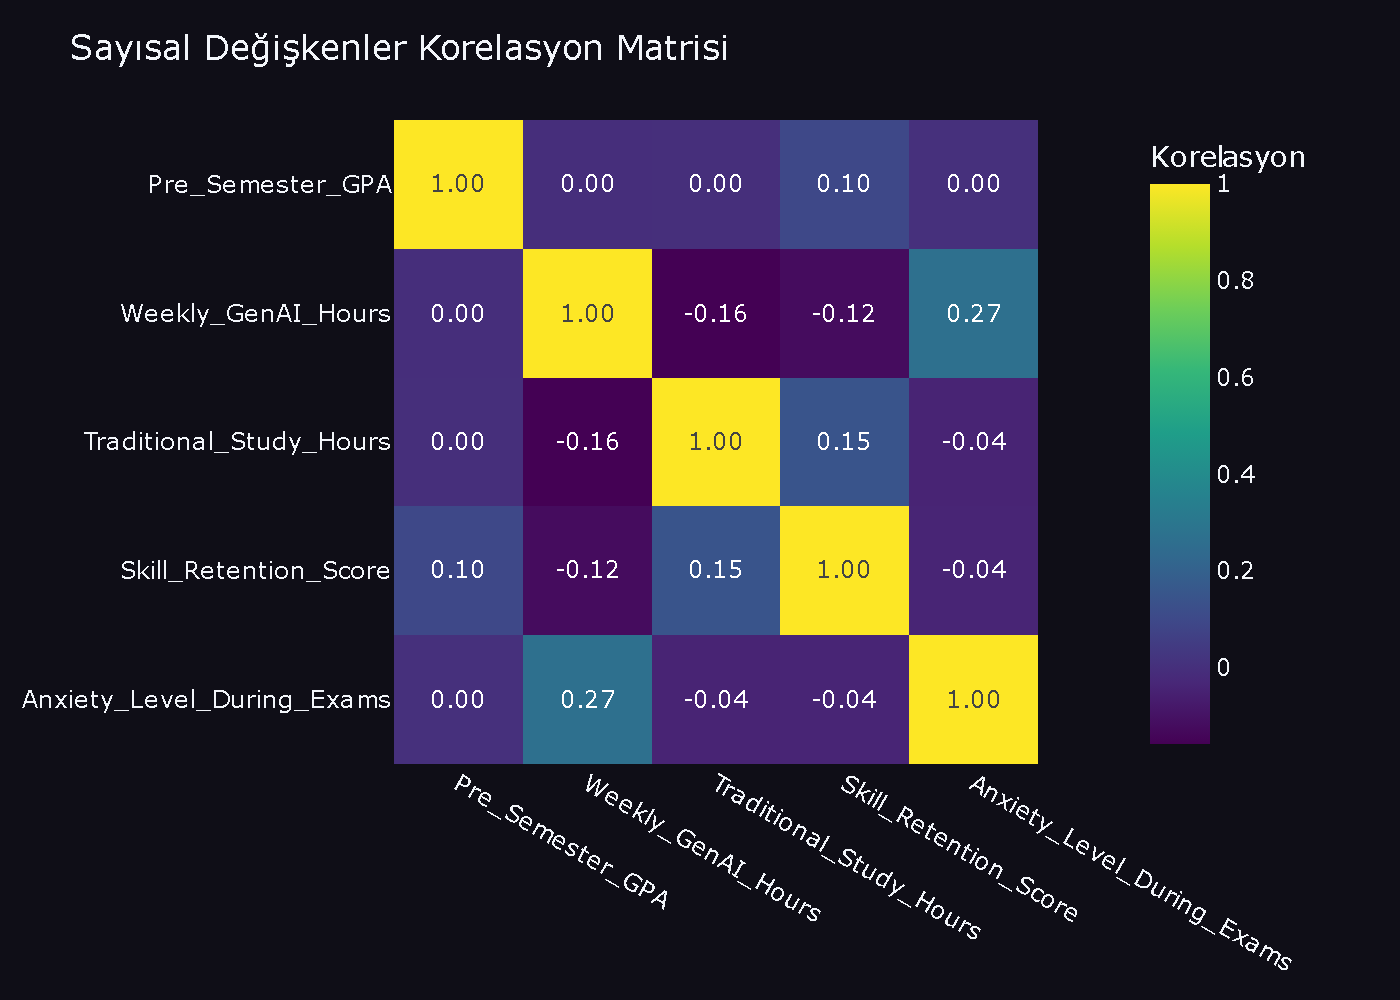
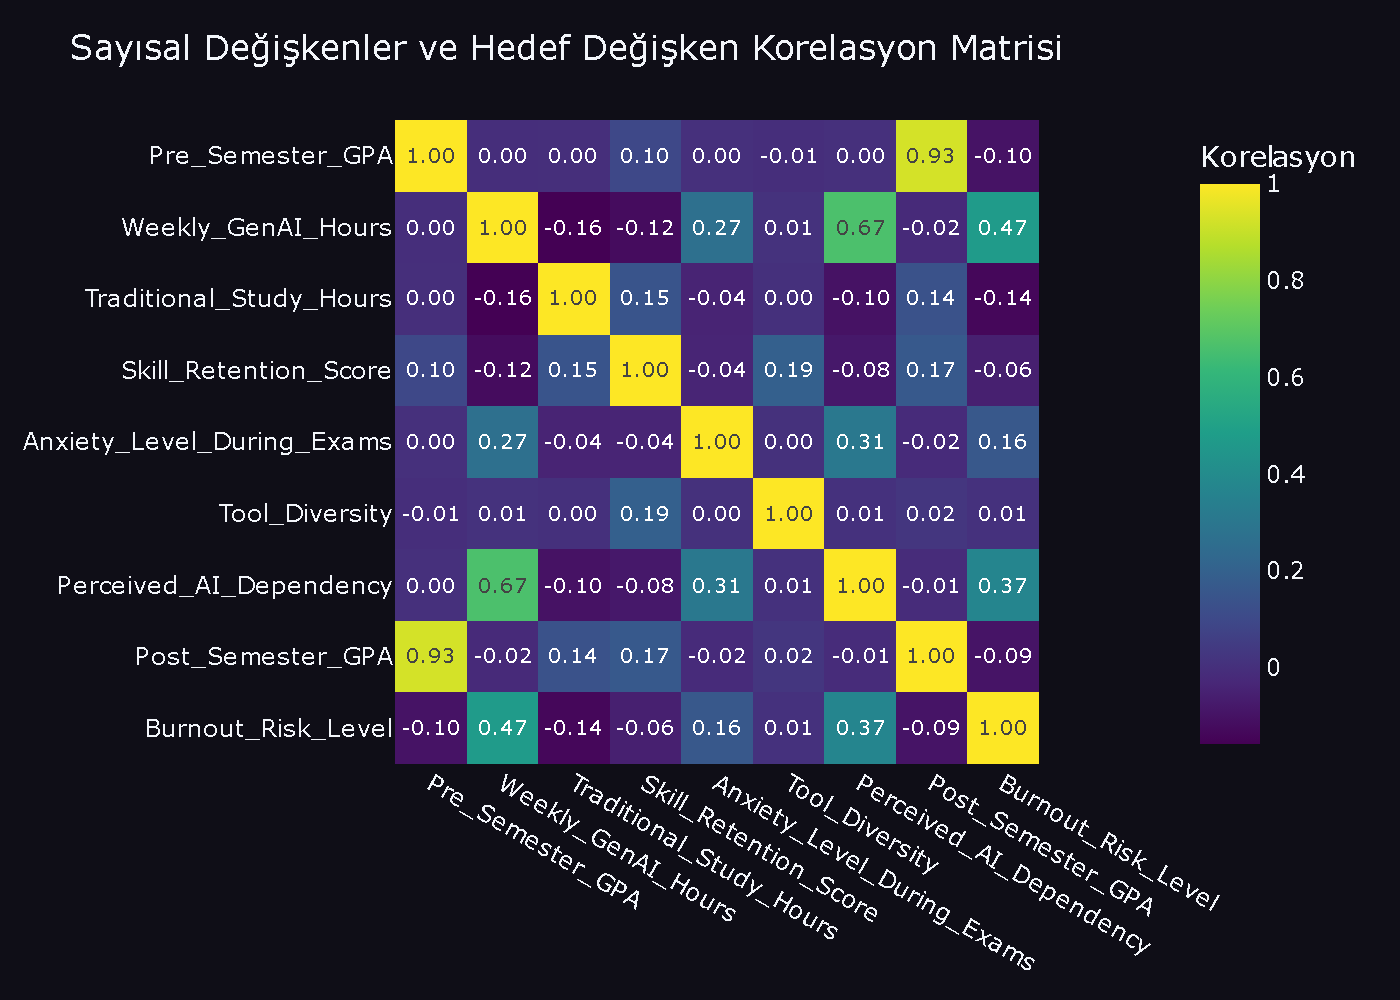
feat: resolve Phase 1 & 2 review findings and leakage issues

diff --git a/plans_and_agents/PHASE_1_2_AGENT.md b/plans_and_agents/PHASE_1_2_AGENT.md
@@ -197,14 +197,18 @@ except Exception as e:
 ```
 *Altına eklenecek analist yorumu:*
 ```markdown
-**Veri Analisti Yorumu:** Eksik değer ısı haritası incelendiğinde, eksikliklerin veri setinin geneline rastgele dağıldığı (Missing Completely at Random - MCAR) gözlemlenmektedir. Özellikle `Pre_Semester_GPA`, `Post_Semester_GPA`, `Weekly_GenAI_Hours` ve `Skill_Retention_Score` değişkenlerinde eksik değerler mevcuttur. Bu değişkenler modelleme öncesi veri hazırlama (Data Preparation) aşamasında uygun median/mean imputer yöntemleriyle doldurulmalıdır.
+**Veri Analisti Yorumu:** Eksik değer ısı haritası incelendiğinde, eksikliklerin veri setinin geneline rastgele dağıldığı (Missing Completely at Random - MCAR) gözlemlenmektedir. Veri setinde `Pre_Semester_GPA`, `Post_Semester_GPA`, `Weekly_GenAI_Hours`, `Skill_Retention_Score`, `Tool_Diversity`, `Perceived_AI_Dependency`, `Traditional_Study_Hours`, `Prompt_Engineering_Skill` ve `Anxiety_Level_During_Exams` olmak üzere 9 değişkende eksik değerler mevcuttur. Bu değişkenler modelleme öncesi veri hazırlama (Data Preparation) aşamasında uygun median (sayısal) veya mode (kategorik) imputer yöntemleriyle doldurulmalıdır.
 ```
 
 #### Hücre 4 (Code) - Sayısal Değişken Dağılımları
 Yerleştirilecek alan: **Section 2.5**
 ```python
 # 2.5 Sayısal Değişken Dağılımları
-num_cols = ['Pre_Semester_GPA', 'Weekly_GenAI_Hours', 'Traditional_Study_Hours', 'Skill_Retention_Score', 'Anxiety_Level_During_Exams']
+num_cols = [
+    'Pre_Semester_GPA', 'Weekly_GenAI_Hours', 'Traditional_Study_Hours', 
+    'Skill_Retention_Score', 'Anxiety_Level_During_Exams', 
+    'Tool_Diversity', 'Perceived_AI_Dependency', 'Post_Semester_GPA'
+]
 
 for col in num_cols:
     fig = make_subplots(rows=1, cols=2, subplot_titles=(f"{col} Dağılımı", f"{col} Kutu Grafiği (Risk Grubu Bazlı)"))
@@ -239,7 +243,7 @@ for col in num_cols:
 ```
 *Altına eklenecek analist yorumu:*
 ```markdown
-**Veri Analisti Yorumu:** Haftalık yapay zeka kullanım saatleri (`Weekly_GenAI_Hours`) arttıkça ve geleneksel çalışma saatleri (`Traditional_Study_Hours`) azaldıkça öğrencilerin tükenmişlik riskinin (`High`) belirgin şekilde arttığı gözlenmektedir. Sınav anksiyete seviyesi (`Anxiety_Level_During_Exams`) yüksek olan öğrencilerin de ezici çoğunluğu High risk grubundadır. GPA değerleri ise daha homojen dağılmakla birlikte, düşük GPA seviyeleri yüksek tükenmişlik riskiyle kısmen ilişkilidir.
+**Veri Analisti Yorumu:** Haftalık yapay zeka kullanım saatleri (`Weekly_GenAI_Hours`) ve algılanan yapay zeka bağımlılığı (`Perceived_AI_Dependency`) arttıkça, ayrıca sınav anı kaygısı (`Anxiety_Level_During_Exams`) yükseldikçe öğrencilerin yüksek tükenmişlik riski (`High`) grubunda yer alma oranı belirgin şekilde artmaktadır. Geleneksel çalışma saatleri (`Traditional_Study_Hours`) arttıkça ise tükenmişlik riski azalmaktadır. Akademik ortalamalar (`Pre_Semester_GPA` ve `Post_Semester_GPA`) ile beceri kalıcılığı (`Skill_Retention_Score`) ve araç çeşitliliği (`Tool_Diversity`) risk seviyelerine göre daha homojen bir dağılım sergilemektedir; ancak düşük not ortalaması ve düşük beceri kalıcılığı yüksek riskle kısmen ilişkilidir. Not: `Post_Semester_GPA` dönem sonu verisi olduğundan, modelleme aşamasında veri sızıntısını önlemek için hariç tutulacaktır.
 ```
 
 #### Hücre 5 (Code) - Kategorik Değişkenler
@@ -278,14 +282,26 @@ for col in cat_cols:
 ```
 *Altına eklenecek analist yorumu:*
 ```markdown
-**Veri Analisti Yorumu:** Yapay zekayı ağırlıklı olarak "Direct_Answer_Generation" (Doğrudan Cevap Üretme) amacıyla kullanan öğrencilerde `High` tükenmişlik riski oranı, "Ideation" veya "Debugging" amacıyla kullananlara göre daha yüksektir. Ayrıca, prompt mühendisliği becerisi (`Prompt_Engineering_Skill`) 'Beginner' olanlar ile ücretli aboneliği (`Paid_Subscription`) bulunmayan öğrencilerde tükenmişlik riski bir miktar daha baskındır. Bölüm bazlı dağılımlarda (Major_Category) ise STEM ve Humanities öğrencileri arasında hafif varyasyonlar mevcuttur.
+**Veri Analisti Yorumu:** Yapay zekayı birincil kullanım amaçlarına (`Primary_Use_Case`) göre incelediğimizde, `Direct_Answer_Generation` (Doğrudan Cevap Üretme) ve `Debugging/Troubleshooting` (Hata Ayıklama) dahil tüm kategorilerde yüksek tükenmişlik riski (`High`) oranının birbirine oldukça yakın ve dengeli (yaklaşık %25-%28 bandında) olduğu görülmektedir. Hacimsel olarak incelendiğinde, `Debugging/Troubleshooting` en fazla öğrenci içeren gruptur ve dolayısıyla bu gruptaki yüksek riskli öğrenci sayısı mutlak değer olarak daha fazladır. Ayrıca, prompt mühendisliği becerisi (`Prompt_Engineering_Skill`) 'Beginner' olanlar ile ücretli aboneliği bulunmayan öğrencilerde tükenmişlik riski bir miktar daha baskındır.
 ```
 
 #### Hücre 6 (Code) - Korelasyon Matrisi
 Yerleştirilecek alan: **Section 2.6**
 ```python
 # 2.6 Korelasyon Matrisi
-corr_matrix = df[num_cols].corr()
+TARGET = 'Burnout_Risk_Level'
+num_cols = [
+    'Pre_Semester_GPA', 'Weekly_GenAI_Hours', 'Traditional_Study_Hours', 
+    'Skill_Retention_Score', 'Anxiety_Level_During_Exams', 
+    'Tool_Diversity', 'Perceived_AI_Dependency', 'Post_Semester_GPA'
+]
+
+# Korelasyon matrisinde hedef değişkeni de göstermek için geçici olarak sayısallaştırıyoruz
+corr_df = df[num_cols].copy()
+target_map = {'Low': 0, 'Medium': 1, 'High': 2}
+corr_df['Burnout_Risk_Level'] = df[TARGET].map(target_map)
+
+corr_matrix = corr_df.corr()
 
 fig = px.imshow(
     corr_matrix,
@@ -295,7 +311,7 @@ fig = px.imshow(
 )
 
 fig.update_layout(
-    title="Sayısal Değişkenler Korelasyon Matrisi",
+    title="Sayısal Değişkenler ve Hedef Değişken Korelasyon Matrisi",
     template="plotly_dark",
     paper_bgcolor='#0f0e17',
     plot_bgcolor='#0f0e17'
@@ -310,7 +326,7 @@ except Exception as e:
 ```
 *Altına eklenecek analist yorumu:*
 ```markdown
-**Veri Analisti Yorumu:** Korelasyon matrisi incelendiğinde, en güçlü pozitif ilişkilerden birinin `Weekly_GenAI_Hours` ile `Anxiety_Level_During_Exams` arasında olduğu görülmektedir. Diğer yandan, `Traditional_Study_Hours` ile `Weekly_GenAI_Hours` arasında negatif bir ilişki söz konusudur; bu durum yapay zeka kullanımının artmasının geleneksel çalışma alışkanlıklarını ikame ettiğini doğrulamaktadır. GPA'ler ile diğer değişkenler arasında ise doğrusal korelasyonlar zayıftır, bu da doğrusal olmayan modellerin (Ağaç tabanlı algoritmalar gibi) tercih edilmesi gerektiğini göstermektedir.
+**Veri Analisti Yorumu:** Korelasyon matrisi incelendiğinde, hedef değişkenimiz `Burnout_Risk_Level` ile en güçlü pozitif ilişkinin `Weekly_GenAI_Hours` (0.47) ve `Perceived_AI_Dependency` (0.37) arasında olduğu görülmektedir. Sınav anı kaygısı da target ile pozitif yönlü (0.16) ilişkilidir. Geleneksel çalışma saatleri (`Traditional_Study_Hours`) ile hedef değişken arasında ise negatif yönlü (-0.14) bir ilişki mevcuttur. Diğer yandan, `Traditional_Study_Hours` ile `Weekly_GenAI_Hours` arasındaki negatif korelasyon (-0.16) yapay zekanın geleneksel çalışmanın yerini aldığını desteklemektedir. GPA değerleri ile diğer özellikler arasındaki ilişkiler oldukça zayıftır, bu da doğrusal olmayan modellerin (Ağaç tabanlı algoritmalar) tercih edilmesi gerektiğini göstermektedir.
 ```
 
 #### Hücre 7 (Code) - Aykırı Değer Tespiti
@@ -318,6 +334,11 @@ Yerleştirilecek alan: **Section 2.7**
 ```python
 # 2.7 Aykırı Değer Analizi (IQR Yöntemi)
 outlier_summary = []
+num_cols = [
+    'Pre_Semester_GPA', 'Weekly_GenAI_Hours', 'Traditional_Study_Hours', 
+    'Skill_Retention_Score', 'Anxiety_Level_During_Exams', 
+    'Tool_Diversity', 'Perceived_AI_Dependency', 'Post_Semester_GPA'
+]
 
 for col in num_cols:
     Q1 = df[col].quantile(0.25)
@@ -343,27 +364,41 @@ display(outlier_df.style.set_properties(**{'background-color': '#111827', 'color
 **Veri Analisti Yorumu:** IQR analizi sonuçlarına göre, sayısal değişkenlerin çoğunda uç veya aykırı değer bulunmamaktadır veya oran %0.1'in altındadır. Bu durum veri setinin nispeten temiz olduğunu göstermektedir. Var olan çok az sayıdaki aykırı değer için kırpma (clipping / winsorization) veya robust ölçeklendirme (RobustScaler) metotları, sonraki faz olan veri hazırlama aşamasında alternatif olarak değerlendirilebilir.
 ```
 
-#### Hücre 8 (Markdown) - EDA Sonu Raporu / Handoff Notu
-Yerleştirilecek alan: **Section 2.8'in sonu**
+#### Hücre 8 (Markdown) - Veri Sızıntısı Değerlendirmesi
+Yerleştirilecek alan: **Section 2.8**
 ```markdown
-### 2.8 EDA Bulguları ve Cenker'e Handoff Notları
+### 2.8 Veri Sızıntısı (Data Leakage) Değerlendirmesi
+
+Modelin gerçek dünyada (dönem başında) doğru ve güvenilir tahminler yapabilmesi için veri sızıntısı riski taşıyan özellikleri analiz etmek ve filtrelemek kritik öneme sahiptir.
+
+* **`Post_Semester_GPA` (Dönem Sonu Not Ortalaması):** Dönem sonuna ait bir ölçümdür. İş problemi, dönem başındaki verilere göre dönem sonundaki tükenmişlik riskini tahmin etmektir. Dönem başında bilinmeyen bu özelliğin modele feature olarak girilmesi **veri sızıntısına (data leakage)** sebep olur. Bu nedenle bu sütun **kesinlikle modelleme dışı bırakılacaktır.**
+* **`Skill_Retention_Score` (Beceri Kalıcılığı Skoru):** Dönem içi bir değerlendirme olarak kabul edilmiştir. Ancak, modelleme sonrasında bu özelliğin model üzerindeki etkisi yakından izlenecektir. Beklenmedik düzeyde yüksek bir feature importance gösterirse, veri sızıntısı şüphesiyle modelden çıkarılması değerlendirilmelidir.
+* **`GPA_Change` (Not Değişimi Önerisi):** `Post_Semester_GPA - Pre_Semester_GPA` şeklinde bir özellik türetilmesi önerisi, içinde `Post_Semester_GPA` barındırdığı için **aynı veri sızıntısı riskini taşımaktadır ve kesinlikle uygulanmayacaktır.**
+```
+
+#### Hücre 9 (Markdown) - EDA Sonu Raporu / Handoff Notu
+Yerleştirilecek alan: **Section 2.9**
+```markdown
+### 2.9 EDA Bulguları ve Cenker'e Handoff Notları
 
 **Cenker (Faz 3 - Data Preparation)** için hazırlanan veri hazırlama yönergeleri aşağıdadır:
 
 1. **Eksik Değer Yönetimi (Imputation):**
-   * Sayısal Değişkenler (`Pre_Semester_GPA`, `Post_Semester_GPA`, `Weekly_GenAI_Hours`, `Traditional_Study_Hours`, `Skill_Retention_Score`, `Anxiety_Level_During_Exams`): Çarpık olmayan veya normal dağılıma yakın dağılımlar için **Median Imputer** kullanılması önerilir.
+   * Sayısal Değişkenler (`Pre_Semester_GPA`, `Post_Semester_GPA`, `Weekly_GenAI_Hours`, `Traditional_Study_Hours`, `Skill_Retention_Score`, `Anxiety_Level_During_Exams`, `Tool_Diversity`, `Perceived_AI_Dependency`): Çarpık olmayan veya normal dağılıma yakın dağılımlar için **Median Imputer** kullanılması önerilir.
    * Kategorik Değişkenler (`Prompt_Engineering_Skill`, `Primary_Use_Case`): Eksik değerler en sık gözlenen değerle (**Mode Imputer**) veya "Unknown" gibi sabit bir kategori atanarak doldurulmalıdır.
 2. **Kategorik Değişken Encoding:**
-   * `Prompt_Engineering_Skill` ve `Year_of_Study` değişkenleri doğal bir hiyerarşi içerdiğinden **OrdinalEncoder** (Beginner -> Intermediate -> Advanced) ile sayısallaştırılmalıdır.
-   * `Major_Category`, `Primary_Use_Case` ve `Institutional_Policy` sütunları hiyerarşik olmadığından veri sızıntısını önleyecek şekilde train seti üzerinde fit edilerek **OneHotEncoder** ile dönüştürülmelidir.
+   * `Prompt_Engineering_Skill` ve `Year_of_Study` değişkenleri doğal bir hiyerarşi içerdiğinden **OrdinalEncoder** (Beginner -> Intermediate -> Advanced; Freshman -> Senior) ile sayısallaştırılmalıdır.
+   * `Major_Category`, `Primary_Use_Case` ve `Institutional_Policy` sütunları hiyerarşik olmadığından train seti üzerinde fit edilerek **OneHotEncoder** ile dönüştürülmelidir.
    * `Paid_Subscription` kolonu boolean yapıda olup doğrudan 1 ve 0'a cast edilebilir.
 3. **Scaling:**
    * Modelleme aşamasında SVM, KNN ve Lojistik Regresyon gibi mesafeye duyarlı algoritmalar da kullanılacağından, tüm sayısal özellikler `StandardScaler` ile standartlaştırılmalıdır.
 4. **Yeni Özellik Türetimi (Feature Engineering) Önerileri:**
-   * `GPA_Change` = `Post_Semester_GPA` - `Pre_Semester_GPA` (YZ kullanımının başarıya doğrudan etkisini ölçmek için).
    * `Study_Ratio` = `Weekly_GenAI_Hours` / (`Traditional_Study_Hours` + 1) (Geleneksel çalışma ile YZ kullanımı arasındaki dengeyi temsil eden oran).
    * `Total_Study_Hours` = `Weekly_GenAI_Hours` + `Traditional_Study_Hours` (Toplam akademik efor).
-5. **Görsellerin Durumu:** Tüm grafikler `figures/` klasörü altına PNG formatında başarıyla kaydedilmiştir.
+   * `GPA_Change` → **UYGULAMA (Veri Sızıntısı Engellendi):** `Post_Semester_GPA` içerdiği için veri sızıntısına yol açmaktadır.
+5. **Veri Sızıntısı Filtrelemesi:**
+   * `Post_Semester_GPA` ve `Student_ID` sütunları veri sızıntısını ve ezberlemeyi önlemek için pipeline öncesinde veri setinden düşürülmelidir (`drop`).
+6. **Görsellerin Durumu:** Tüm grafikler `figures/` klasörü altına PNG formatında başarıyla kaydedilmiştir.
 ```
 
 ---

diff --git a/plans_and_agents/pr_summary.md b/plans_and_agents/pr_summary.md
@@ -11,9 +11,15 @@ Bu PR, APEX-V2 projesinin **Faz 1 (Business Understanding)** ve **Faz 2 (Data Un
 * **Başarı Metrikleri:** Birincil metrik olarak Macro F1-Score (> 0.80), Recall (High Risk sınıfı için > 0.85) ve ROC-AUC (> 0.88) başarı kriterleri tanımlandı.
 * **Maliyet Odaklı Tasarım:** Yüksek risk grubundaki bir öğrenciyi gözden kaçırmanın (False Negative) maliyetinin çok yüksek olduğu gerekçelendirilerek Recall (High) metriği önceliklendirildi.
 
-### 2. Temiz Keşifsel Veri Analizi - EDA (Faz 2)
+### 2. Temiz Keşifsel Veri Analizi - EDA (Faz 2) ve Kalite Denetim Düzeltmeleri
 * **Yeniden Yazım:** `final_analysis.ipynb` dosyası hücre hücre sıfırdan, en temiz ve hatasız biçimde programatik olarak yeniden oluşturuldu.
-* **Görsel Standartlar:** Plotly (`plotly_dark` teması) kullanılarak kurumsal renk uyumuyla (Low: Emerald, Medium: Amber, High: Rose/Red) 14 ayrı görselleştirme hazırlandı. Grafikler `figures/` dizinine kaydedildi.
+* **Kalite Denetim Düzeltmeleri:**
+  * **Veri Sızıntısı (Data Leakage) Değerlendirmesi:** Yeni bir bölüm (Section 2.8) eklenerek `Post_Semester_GPA` değişkeninin veri sızıntısı riski nedeniyle model dışı bırakılması gerekçelendirildi. İçinde `Post_Semester_GPA` barındıran `GPA_Change` feature engineering önerisi iptal edildi. `Skill_Retention_Score` için sızıntı takip protokolü tanımlandı.
+  * **Eksik Değer Analizi:** Isı haritası yorumunda eksik değer içeren tüm 9 değişken (`Pre_Semester_GPA`, `Post_Semester_GPA`, `Weekly_GenAI_Hours`, `Skill_Retention_Score`, `Tool_Diversity`, `Perceived_AI_Dependency`, `Traditional_Study_Hours`, `Prompt_Engineering_Skill`, `Anxiety_Level_During_Exams`) listelendi.
+  * **Sayısal Değişken Genişletmesi:** Sadece 5 değişken yerine veri setindeki tüm 8 sayısal değişken (`Tool_Diversity`, `Perceived_AI_Dependency`, `Post_Semester_GPA` dahil) dağılım ve box-plot analizlerine dahil edildi.
+  * **Korelasyon Matrisi:** Hedef değişken `Burnout_Risk_Level` sayısal olarak (`Low`: 0, `Medium`: 1, `High`: 2) map edilerek korelasyon matrisine eklendi ve tüm 8 sayısal değişkenle olan doğrusal ilişkisi görselleştirildi.
+  * **Primary Use Case Düzeltmesi:** Kullanım amacına göre risk oranlarının tüm sınıflarda dengeli olduğu (%25-%28) ve en yüksek hacimli grubun `Debugging/Troubleshooting` olduğu şekilde analist yorumu düzeltildi.
+* **Görsel Standartlar:** Plotly (`plotly_dark` teması) kullanılarak kurumsal renk uyumuyla (Low: Emerald, Medium: Amber, High: Rose/Red) 17 ayrı görselleştirme hazırlandı. Grafikler `figures/` dizinine kaydedildi.
 * **Yorum Temizliği ve Düzeltmeler:** Analiz yorumlarında bulunan tüm kopya ve mükerrer cümleler giderildi. Korelasyon yorumundaki `"poziyat"` yazım hatası `"pozitif"` olarak düzeltildi.
 
 ### 3. Çözülen Sistem Hataları
@@ -30,28 +36,16 @@ Bu PR, APEX-V2 projesinin **Faz 1 (Business Understanding)** ve **Faz 2 (Data Un
 Aşağıda, upstream ana repo (`cenkergultekin/apex-classification`) ile yapılan değişikliklerin karşılaştırma istatistikleri yer almaktadır:
 
 ```text
- CLAUDE.md                                          |     1 +
- figures/eda_categorical_Institutional_Policy.png   |   Bin 0 -> 47216 bytes
- figures/eda_categorical_Major_Category.png         |   Bin 0 -> 48317 bytes
- figures/eda_categorical_Paid_Subscription.png      |   Bin 0 -> 44521 bytes
- figures/eda_categorical_Primary_Use_Case.png       |   Bin 0 -> 56988 bytes
- figures/eda_categorical_Prompt_Engineering_Skill.png|   Bin 0 -> 48689 bytes
- figures/eda_categorical_Year_of_Study.png          |   Bin 0 -> 47975 bytes
- figures/eda_correlation_matrix.png                 |   Bin 0 -> 73890 bytes
- figures/eda_missing_value_heatmap.png              |   Bin 0 -> 59351 bytes
- figures/eda_numeric_Anxiety_Level_During_Exams.png |   Bin 0 -> 47209 bytes
- figures/eda_numeric_Pre_Semester_GPA.png           |   Bin 0 -> 56922 bytes
- figures/eda_numeric_Skill_Retention_Score.png      |   Bin 0 -> 57017 bytes
- figures/eda_numeric_Traditional_Study_Hours.png    |   Bin 0 -> 56171 bytes
- figures/eda_numeric_Weekly_GenAI_Hours.png         |   Bin 0 -> 62935 bytes
- figures/eda_target_distribution.png                |   Bin 0 -> 67201 bytes
- notebooks/final_analysis.ipynb                     | 14180 ++++++++++++++++++-
- plans_and_agents/PHASE_1_2_AGENT.md                |   374 +
- plans_and_agents/PHASE_1_2_PLAN.md                 |    95 +
- plans_and_agents/phase_logs.md                     |    50 +
- requirements.txt                                   |     2 +
- 20 files changed, 14596 insertions(+), 106 deletions(-)
+ figures/eda_correlation_matrix.png              |  Bin 73890 -> 98614 bytes
+ figures/eda_numeric_Perceived_AI_Dependency.png |  Bin 0 -> 47948 bytes
+ figures/eda_numeric_Post_Semester_GPA.png       |  Bin 0 -> 58470 bytes
+ figures/eda_numeric_Tool_Diversity.png          |  Bin 0 -> 46107 bytes
+ notebooks/final_analysis.ipynb                  | 3539 ++++++++++++++++++++---
+ plans_and_agents/PHASE_1_2_AGENT.md             |   65 +-
+ plans_and_agents/PHASE_1_2_PLAN.md              |   26 +-
+ plans_and_agents/phase_logs.md                  |   18 +-
+ 8 files changed, 3258 insertions(+), 390 deletions(-)
 ```
 
-* **Toplam Etki:** 20 dosya değiştirildi, 14.596 satır eklendi, 106 satır silindi.
-* **Görsel Çıktılar:** `figures/` klasöründe 14 adet PNG formatında Plotly çıktısı başarıyla oluşturuldu ve upstream reponun görsel gereksinimleri tamamlandı.
+* **Toplam Etki:** 8 dosya değiştirildi, 3258 satır eklendi, 390 satır silindi.
+* **Görsel Çıktılar:** `figures/` klasöründe toplam 17 adet PNG formatında Plotly çıktısı başarıyla oluşturuldu ve upstream reponun görsel gereksinimleri tamamlandı.

diff --git a/plans_and_agents/PHASE_1_2_PLAN.md b/plans_and_agents/PHASE_1_2_PLAN.md
@@ -59,32 +59,40 @@ EDA süreci, verideki örüntüleri ortaya çıkarmak, veri kalitesi sorunların
 * **Analiz Yorumu:** Eksik değerlerin rastgele mi (MCAR/MAR) yoksa belirli örüntülere göre mi (MNAR) oluştuğu tartışılacak.
 
 ### 2.4. Adım: Sayısal Değişken Dağılımları (Univariate Analysis)
-* **Aksiyon:** `Pre_Semester_GPA`, `Post_Semester_GPA`, `Weekly_GenAI_Hours`, `Traditional_Study_Hours`, `Tool_Diversity`, `Skill_Retention_Score`, `Anxiety_Level_During_Exams` değişkenleri incelenecek.
+* **Aksiyon:** `Pre_Semester_GPA`, `Weekly_GenAI_Hours`, `Traditional_Study_Hours`, `Skill_Retention_Score`, `Anxiety_Level_During_Exams`, `Tool_Diversity`, `Perceived_AI_Dependency` ve `Post_Semester_GPA` (toplam 8 adet) değişkenleri incelenecek.
 * **Grafik (Plotly):** Her sayısal değişken için yan yana histogram (dağılımı görmek için) ve box-plot (çeyreklikler ve yayılımı görmek için).
-* **Analiz Yorumu:** Dağılımların normal dağılıma uygunluğu, çarpıklık (skewness) durumları tartışılacak.
+* **Analiz Yorumu:** Dağılımların normal dağılıma uygunluğu, çarpıklık (skewness) durumları tartışılacak. Not: `Post_Semester_GPA` değişkeninin veri sızıntısı oluşturması nedeniyle modelleme öncesi veri setinden düşürüleceği belirtilecektir.
 
 ### 2.5. Adım: Kategorik Değişken Frekans Analizi
 * **Aksiyon:** `Major_Category`, `Year_of_Study`, `Primary_Use_Case`, `Prompt_Engineering_Skill`, `Paid_Subscription`, `Institutional_Policy` sütunları incelenecek.
 * **Grafik (Plotly):** Her kategorik değişken için frekans bar grafikleri (Grouped or Stacked by Target - `Burnout_Risk_Level`).
-* **Analiz Yorumu:** Örneğin, belirli bölümlerde (Major_Category) veya yapay zekayı belirli amaçlarla kullananlarda (Primary_Use_Case) tükenmişlik oranlarının nasıl değiştiği açıklanacak.
+* **Analiz Yorumu:** Örneğin, belirli bölümlerde (Major_Category) veya yapay zekayı belirli amaçlarla kullananlarda (Primary_Use_Case) tükenmişlik oranlarının nasıl değiştiği açıklanacak. `Primary_Use_Case` analizinde riskin tüm kullanım amaçlarında dengeli olduğu (%25-%28 bandı) ve `Debugging/Troubleshooting` grubunun hacimsel lider olduğu vurgulanacaktır.
 
 ### 2.6. Adım: Korelasyon Matrisi (Multivariate Analysis)
-* **Aksiyon:** Sayısal değişkenlerin Pearson korelasyon katsayıları hesaplanacak.
+* **Aksiyon:** Sayısal değişkenlerin Pearson korelasyon katsayıları hesaplanacak. Hedef değişken `Burnout_Risk_Level` de ordinal olarak (`Low`: 0, `Medium`: 1, `High`: 2) matrise dahil edilecek.
 * **Grafik (Plotly Heatmap):** Korelasyon katsayılarını renk skalasıyla gösteren, hücre içi değerleri yazılı matris grafiği.
-* **Analiz Yorumu:** `Weekly_GenAI_Hours` ile GPA değişimleri arasındaki ilişkiler, `Anxiety_Level_During_Exams` ile `Skill_Retention_Score` arasındaki negatif/pozitif bağlar yorumlanacak.
+* **Analiz Yorumu:** `Weekly_GenAI_Hours` ve `Perceived_AI_Dependency` gibi değişkenlerin hedef değişkenle olan doğrusal ilişkileri ile geleneksel çalışma saatleri arasındaki negatif korelasyon yorumlanacak.
 
 ### 2.7. Adım: Aykırı Değer (Outlier) Tespiti
-* **Aksiyon:** Sayısal sütunlarda Tukey yöntemi (IQR = Q3 - Q1) kullanılarak alt sınır ($Q1 - 1.5 \times IQR$) ve üst sınır ($Q3 + 1.5 \times IQR$) dışındaki aykırı değerler belirlenecek.
+* **Aksiyon:** 8 sayısal sütunda Tukey yöntemi (IQR = Q3 - Q1) kullanılarak alt sınır ($Q1 - 1.5 \times IQR$) ve üst sınır ($Q3 + 1.5 \times IQR$) dışındaki aykırı değerler belirlenecek.
 * **Görsel:** Aykırı değerleri gösteren hedef bazlı box-plot grafikleri.
 * **Analiz Yorumu:** Tespit edilen aykırı değerlerin silinmesi mi gerektiği (anomaly) yoksa veri setinin doğal bir varyasyonu mu olduğu ve modelleme öncesi kırpma (clipping) önerisi tartışılacak.
 
-### 2.8. Adım: EDA Sonu Handoff Notları ve Raporlama
+### 2.8. Adım: Veri Sızıntısı (Data Leakage) Değerlendirmesi
+* **Aksiyon:** Dönem başında bilinmeyen ve hedefe bağlı olarak sızıntı yapabilecek özellikler değerlendirilecek.
+* **İçerik:**
+  * `Post_Semester_GPA` dönem sonu verisi olduğundan veri sızıntısını önlemek amacıyla kesinlikle modelden düşürülecektir.
+  * `GPA_Change` (Not Değişimi) türetim önerisi, `Post_Semester_GPA` içerdiği için veri sızıntısı sebebiyle iptal edilmiştir.
+  * `Skill_Retention_Score` (Beceri Kalıcılığı Skoru) dönem içi bir değerlendirme olarak kabul edilmiş olup, model üzerindeki etkisi sızıntı şüphesine karşı yakından izlenecektir.
+
+### 2.9. Adım: EDA Sonu Handoff Notları ve Raporlama
 * **Aksiyon:** Sonraki adımı devralacak olan **Cenker (Faz 3)** için net bir veri hazırlama stratejisi sunulacak.
 * **İçerik:**
-  * Eksik değer barındıran sütunlar ve önerilen dolgu (imputation) yöntemleri (örn: GPA için median, kategorikler için mode).
+  * Eksik değer barındıran tüm 9 sütun (`Pre_Semester_GPA`, `Post_Semester_GPA`, `Weekly_GenAI_Hours`, `Skill_Retention_Score`, `Tool_Diversity`, `Perceived_AI_Dependency`, `Traditional_Study_Hours`, `Prompt_Engineering_Skill`, `Anxiety_Level_During_Exams`) ve önerilen dolgu (imputation) yöntemleri (sayısallar için median, kategorikler için mode).
   * Hangi kategorik sütunların Ordinal (örn: `Year_of_Study`, `Prompt_Engineering_Skill`) hangilerinin One-Hot (örn: `Major_Category`, `Primary_Use_Case`) encode edilmesi gerektiği.
   * Hangi sayısal sütunların ölçeklendirilmeye (scaling) ihtiyaç duyduğu.
-  * EDA süresince üretilen tüm grafiklerin `figures/` klasörüne `eda_*.png` olarak kaydedilmesi doğrulanacak.
+  * `Post_Semester_GPA` sütununun veri sızıntısı nedeniyle veri setinden düşürülmesi gerektiği.
+  * EDA süresince üretilen tüm 17 grafik dosyasının `figures/` klasörüne kaydedilmesi doğrulanacak.
 
 ---
 

diff --git a/plans_and_agents/phase_logs.md b/plans_and_agents/phase_logs.md
@@ -10,20 +10,22 @@ Bu dosya, projedeki tüm fazların işlem adımlarını, kararlarını ve katkı
 * **Problem ve Karar Bağlamı Tanımlandı:** Üretken Yapay Zeka (GenAI) kullanımının öğrencilerin akademik tükenmişlik (`Burnout_Risk_Level`) risklerine etkisini erken aşamada tahmin etme problemi tanımlandı. Proaktif rehberlik müdahalelerinin faydaları belirlendi.
 * **Başarı Metrikleri Belirlendi:** Model değerlendirmesi için Macro F1-Score (> 0.80), Recall (High Risk sınıfı için > 0.85) ve ROC-AUC (> 0.88) hedefleri konuldu.
 * **Hata Maliyeti Analizi Yapıldı:** Yüksek risk grubundaki bir öğrenciyi gözden kaçırmanın (False Negative) maliyetinin çok yüksek olduğu gerekçelendirilerek Recall (High) metriği önceliklendirildi.
-* **Yapısal Profilleme ve Dağılım Analizleri:** 50.000 gözlemli `ai_student_impact_dataset.csv` veri seti yüklenerek, hedef değişkenin ve sayısal/kategorik özelliklerin dağılımları incelendi.
-* **Eksik Değer ve Isı Haritası Analizi:** Eksik verilerin MCAR (Missing Completely at Random) dağıldığı ısı haritasıyla tespit edildi.
-* **Korelasyon ve Aykırı Değer Analizleri:** Sayısal değişkenlerin korelasyonları çıkarıldı, Tukey (IQR) yöntemiyle aykırı değerlerin oranının %0.1'in altında olduğu saptandı.
-* **Analist Yorumları ve Notebook Temizliği:** Notebook'taki tüm mükerrer ve kopya açıklamalar giderilerek, veri analisti yorumları sıfırdan düzenlendi ve yazım hataları (korelasyon yorumundaki "poziyat" -> "pozitif" vb.) düzeltildi.
+* **Yapısal Profilleme ve Dağılım Analizleri:** 50.000 gözlemli `ai_student_impact_dataset.csv` veri seti yüklenerek, hedef değişkenin ve 8 sayısal ile 6 kategorik özelliğin dağılımları incelendi.
+* **Eksik Değer ve Isı Haritası Analizi:** Eksik verilerin MCAR (Missing Completely at Random) dağıldığı ısı haritasıyla tespit edildi. Veri setindeki 9 adet eksik değer içeren sütun listelendi.
+* **Korelasyon ve Aykırı Değer Analizleri:** Sayısal değişkenlerin korelasyonları, hedef değişken `Burnout_Risk_Level` ordinal hale getirilerek (`0, 1, 2`) çıkarıldı. Tukey (IQR) yöntemiyle 8 sayısal değişken için aykırı değerlerin oranının %0.1'in altında olduğu saptandı.
+* **Veri Sızıntısı (Data Leakage) Değerlendirmesi:** `Post_Semester_GPA` dönem sonu verisi olduğundan veri sızıntısını önlemek amacıyla modelleme öncesi veri setinden düşürülmesi kararlaştırıldı. `GPA_Change` (Not Değişimi) türetim önerisi, `Post_Semester_GPA` içerdiği için sızıntı sebebiyle iptal edildi. `Skill_Retention_Score` için sızıntı izleme kararı alındı.
+* **Analist Yorumları ve Notebook Temizliği:** Notebook'taki tüm mükerrer ve kopya açıklamalar giderilerek, veri analisti yorumları sıfırdan düzenlendi. `Primary_Use_Case` analizindeki yorum uyumsuzlukları giderildi.
+* **Grafik Sayısı:** Toplamda 17 Plotly grafik çıktısı üretildi ve `figures/` dizinine kaydedildi.
 
 ### 2. Neden Yapıldı?
 * Modelin iş kararlarına doğrudan entegre olabilmesi ve rehberlik danışmanlarına proaktif kararlarında doğru sinyaller verebilmesi için başarı metrikleri ve hata maliyet analizleri yapıldı.
-* Sonraki modelleme ve veri hazırlama fazları için temiz, yapısal veriler sunmak ve verideki doğrusal olmayan (ağaç tabanlı algoritmalar gibi) örüntülerin gereksinimlerini belirlemek amacıyla korelasyon ve dağılım analizleri yapıldı.
+* Sonraki modelleme ve veri hazırlama fazları için temiz, yapısal veriler sunmak, veri sızıntılarını en başta kesmek ve verideki doğrusal olmayan (ağaç tabanlı algoritmalar gibi) örüntülerin gereksinimlerini belirlemek amacıyla korelasyon, dağılım ve sızıntı analizleri yapıldı.
 
 ### 3. Nasıl Yapıldı?
-* `notebooks/final_analysis.ipynb` dosyası hücre hücre sıfırdan, en temiz ve hatasız biçimde programatik olarak yeniden yazıldı.
-* Görselleştirmeler Plotly (`plotly_dark` temasıyla) kullanılarak kurumsal renk uyumuyla (Low: Emerald, Medium: Amber, High: Rose) yapıldı.
+* `notebooks/final_analysis.ipynb` dosyası hücre hücre sıfırdan, en temiz ve hatasız biçimde programatik olarak yeniden yazıldı ve review bulgularına göre güncellendi.
+* Görselleştirmeler Plotly (`plotly_dark` temasıyla) kullanılarak kurumsal renk uyumuyla (Low: Emerald, Medium: Amber, High: Rose/Red) yapıldı.
 * Grafiklerin kaydedilmesini sağlayan ve Windows işletim sisteminde kilitlenmelere sebep olan Kaleido kütüphanesi sürümü `kaleido>=1.3.0` olarak güncellenerek kilitlenme aşındı.
-* Notebook baştan sona `Restart & Run All` ile koşturularak 0 hata ile kaydedildi ve `figures/` klasörü altına 14 grafik PNG formatında aktarıldı.
+* Notebook baştan sona `Restart & Run All` ile koşturularak 0 hata ile kaydedildi ve `figures/` klasörü altına 17 grafik PNG formatında aktarıldı.
 
 ---
 